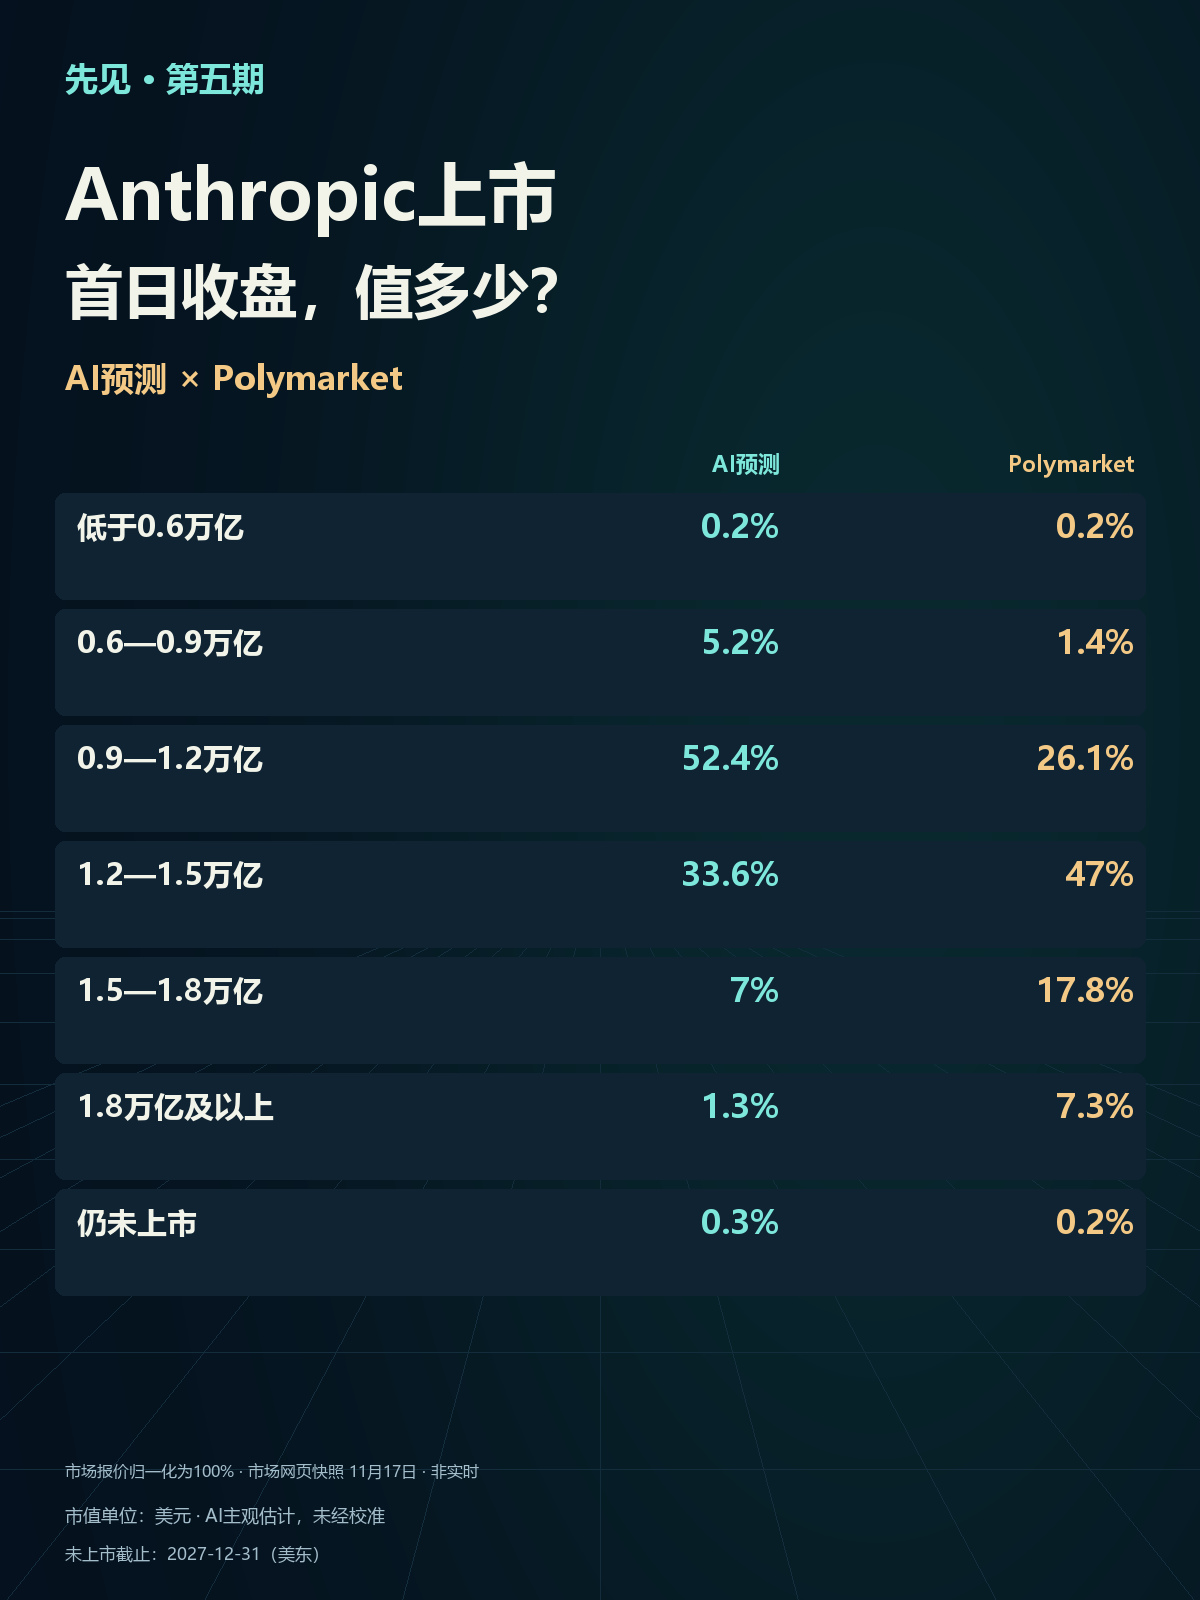
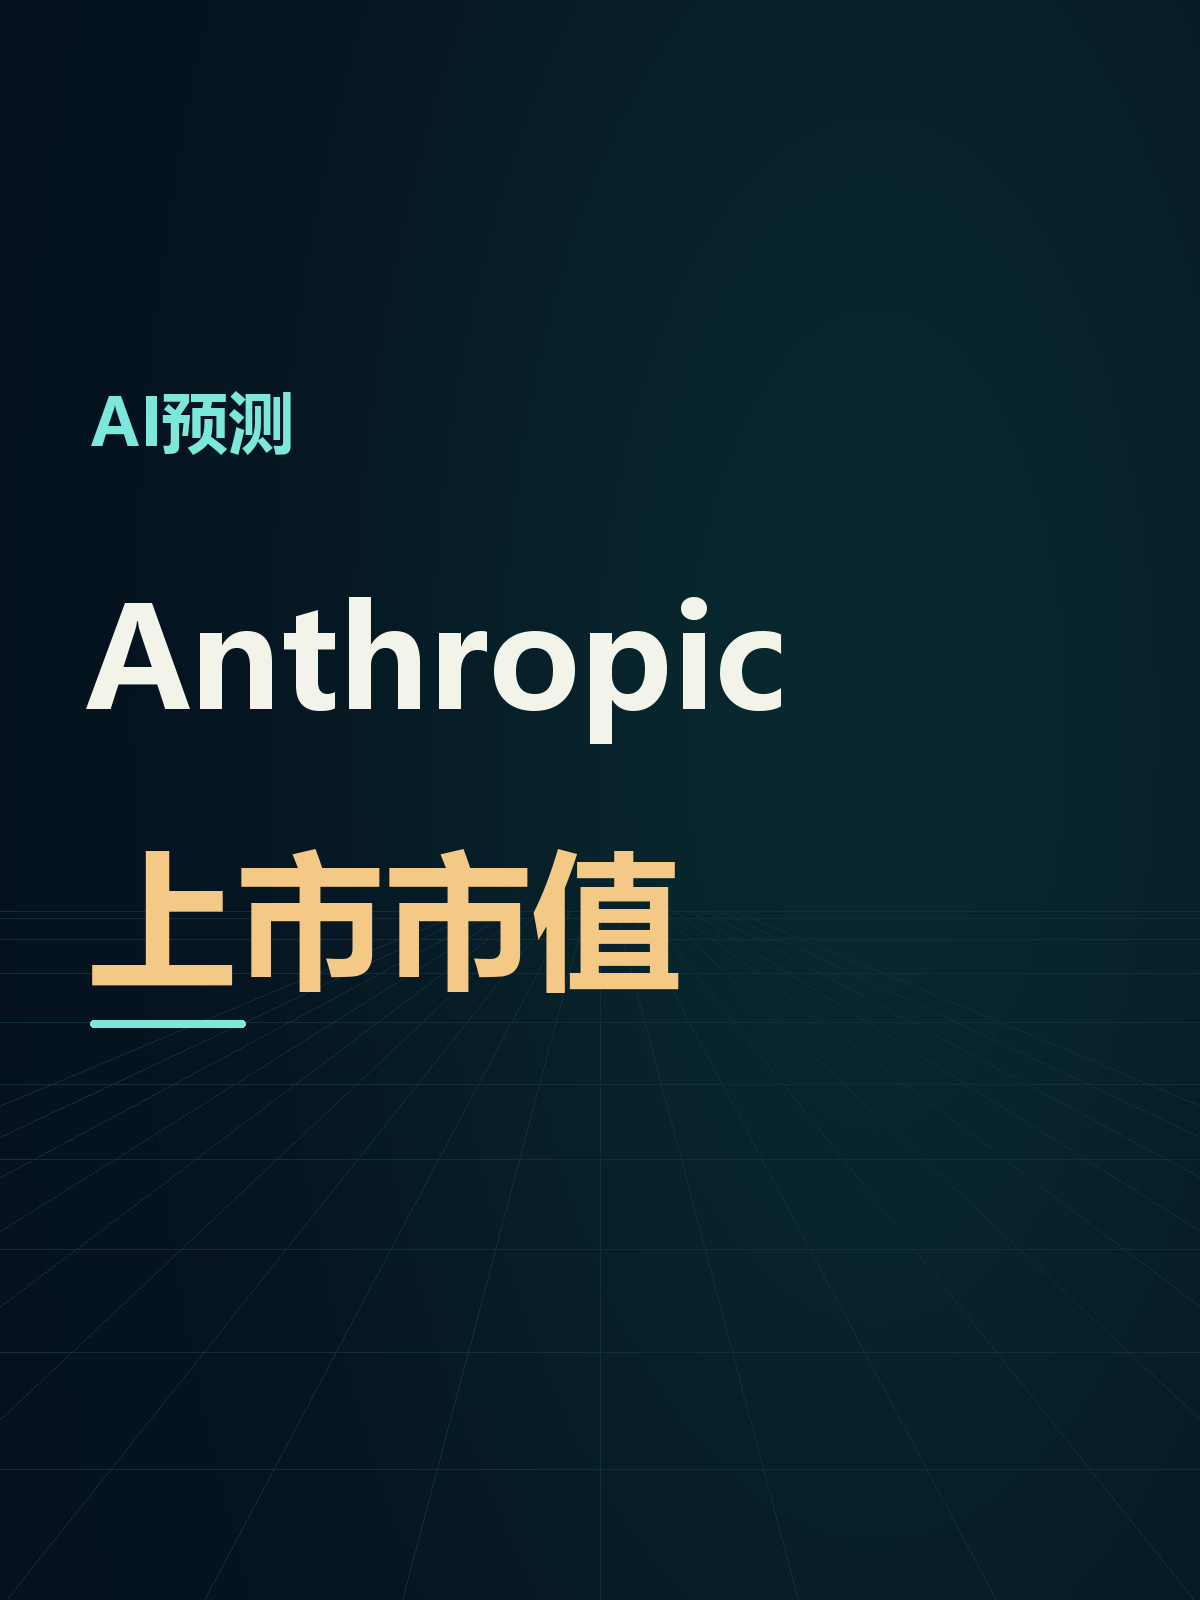
Simplify episode 005 covers to the forecast title

diff --git a/docs/issue-005.en.md b/docs/issue-005.en.md
@@ -4,7 +4,7 @@
 
 **The AI distribution favors $0.9T–$1.2T (52.4%); the normalized market webpage snapshot favors $1.2T–$1.5T (47.0%).**
 
-![Episode005 comparison](images/issue-005-cover.jpg)
+![AI forecast of Anthropic IPO market capitalization](images/issue-005-cover.jpg)
 
 | First-day closing market cap | AI estimate | Normalized Polymarket snapshot |
 | --- | ---: | ---: |

diff --git a/docs/issue-005.md b/docs/issue-005.md
@@ -4,7 +4,7 @@
 
 **AI最看好0.9—1.2万亿美元：52.4%；市场归一化快照最看好1.2—1.5万亿美元：47.0%。**
 
-![第五期七档预测与市场对比](images/issue-005-cover.jpg)
+![AI预测Anthropic上市市值](images/issue-005-cover.jpg)
 
 | 首日收盘市值 | AI预测 | Polymarket快照* |
 | --- | ---: | ---: |
